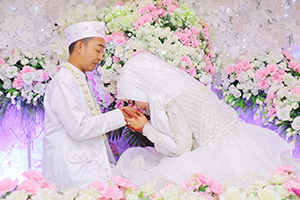
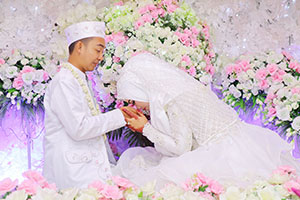
Sliming image size

diff --git a/index.html b/index.html
@@ -31,7 +31,7 @@
   </div>
   <div class="app">
     <div class="header">
-      <div id="background" data-type="background" data-speed="5" style="background-image: url(./assets/images/header-bg.png);"></div>
+      <div id="background" data-type="background" data-speed="5" style="background-image: url(./assets/images/header-bg.jpg);"></div>
       <img src="./assets/images/logo2.png" id="header-logo" 
         data-aos="fade-up"
         >
@@ -288,7 +288,7 @@
     <div class="section-divider fix-bottom"></div>
     <!-- Kata Kata -->
     <section class="katakata-wrap">
-      <div id="background" data-type="background" data-speed="-5" style="background-image: url(./assets/images/katakata-bg.png);"></div>
+      <div id="background" data-type="background" data-speed="-5" style="background-image: url(./assets/images/katakata-bg.jpg);"></div>
       <div class="container justify-content-center d-flex flex-column flex align-items-end">
         <div class="katakata-isi">
           <div class="font-kitten text-pink font-bold atas"
